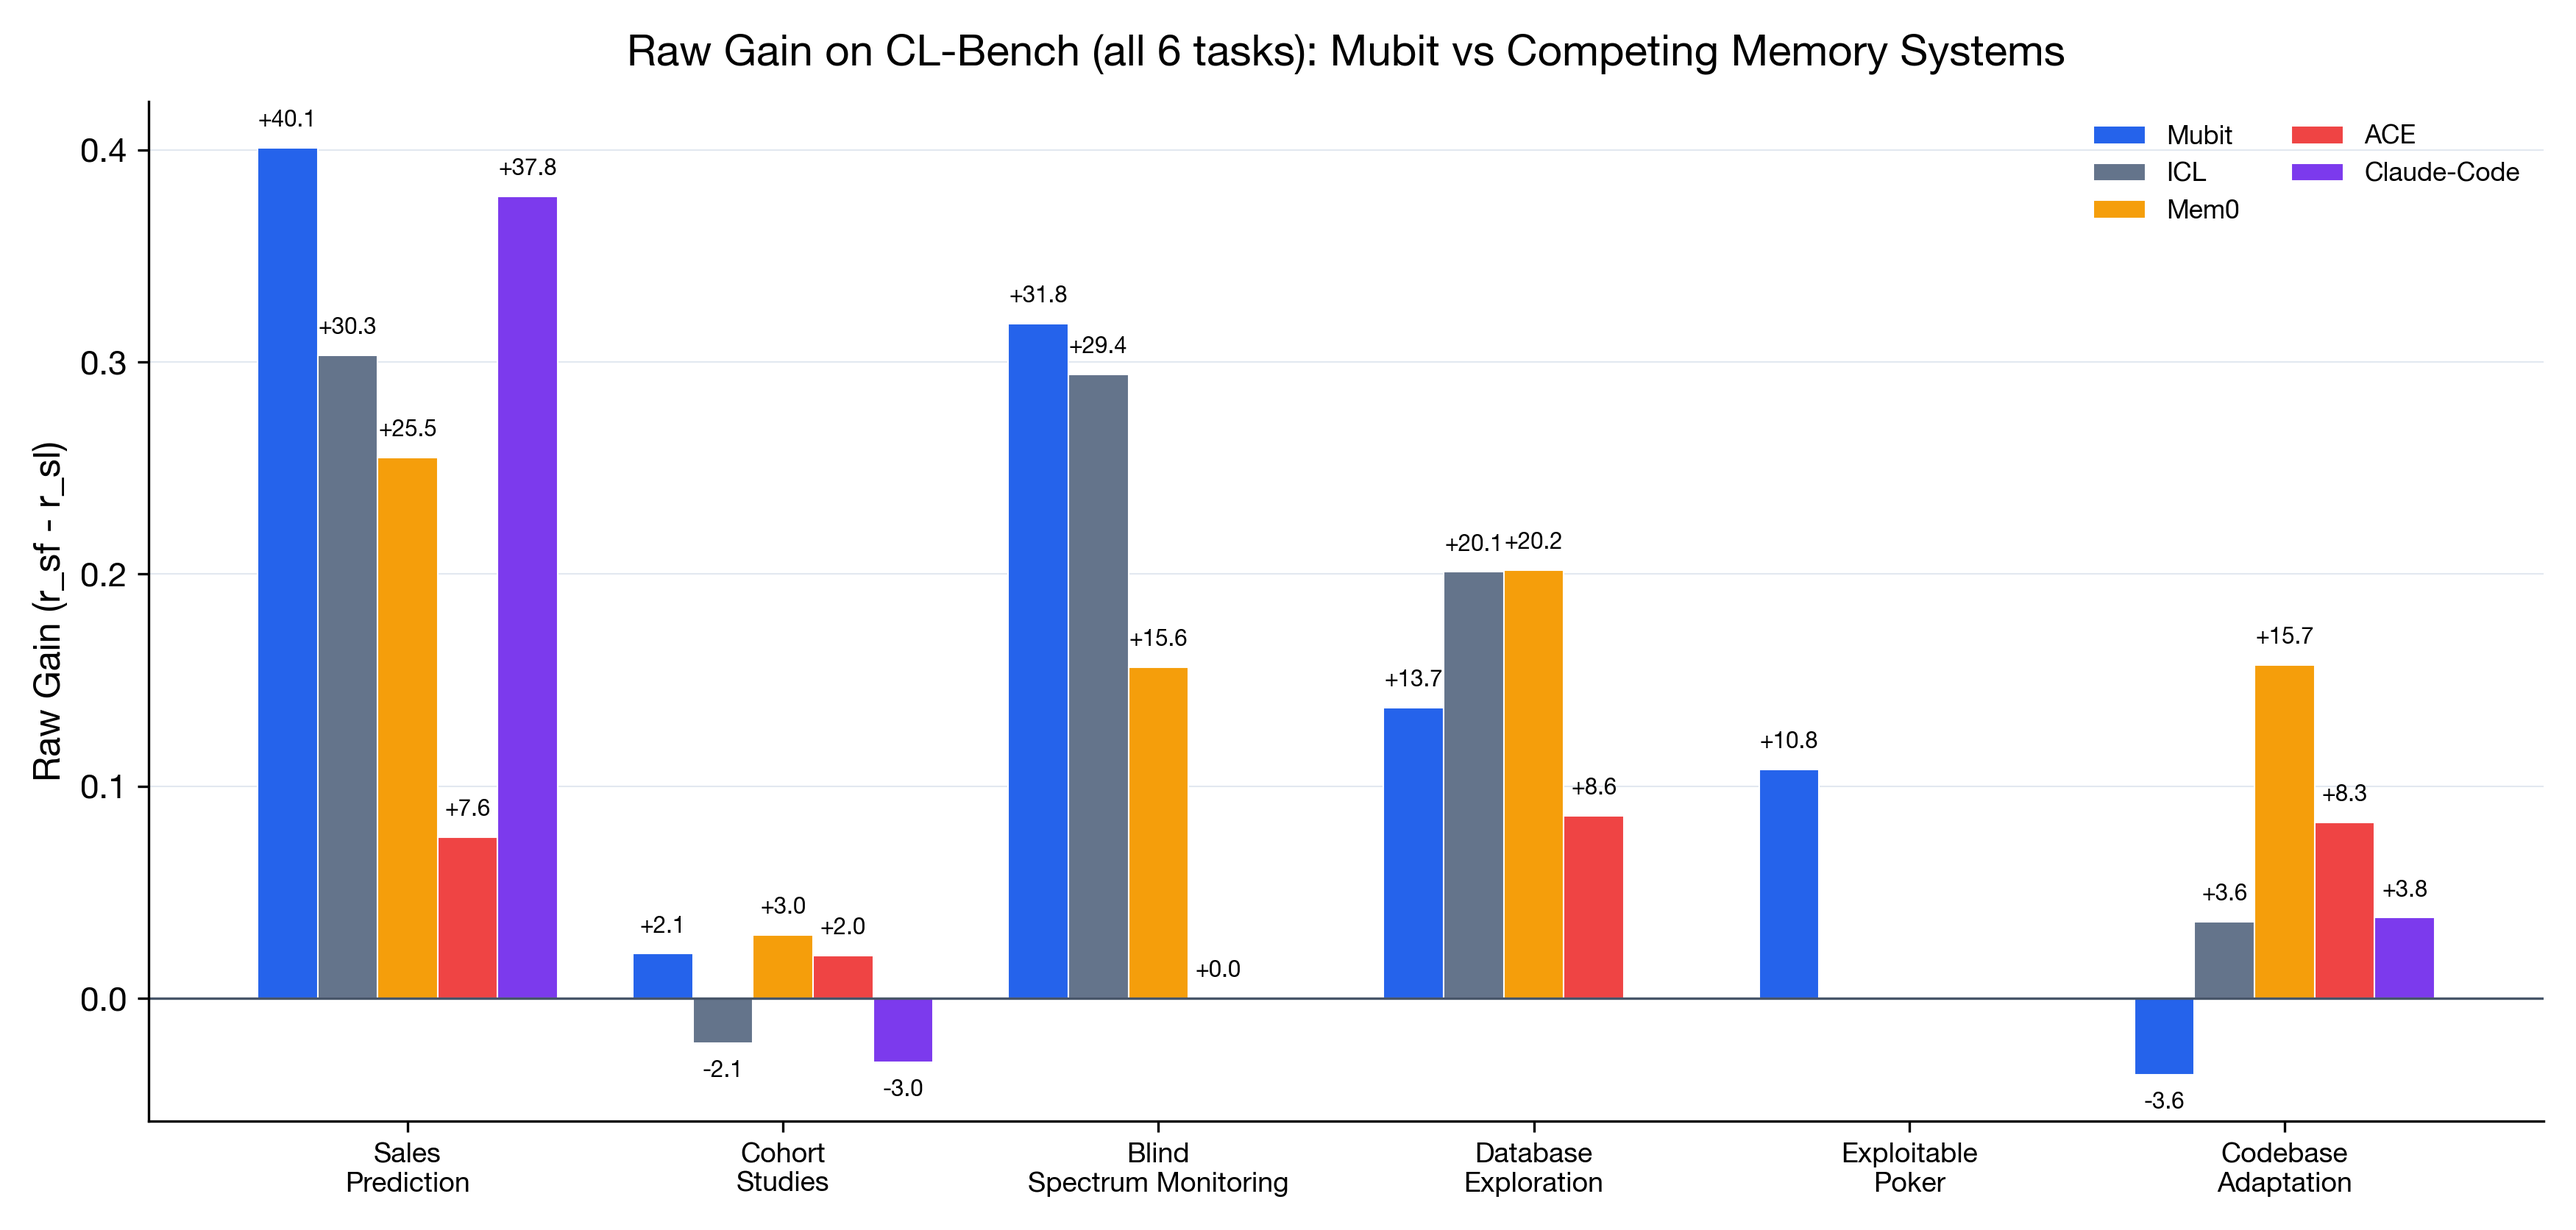
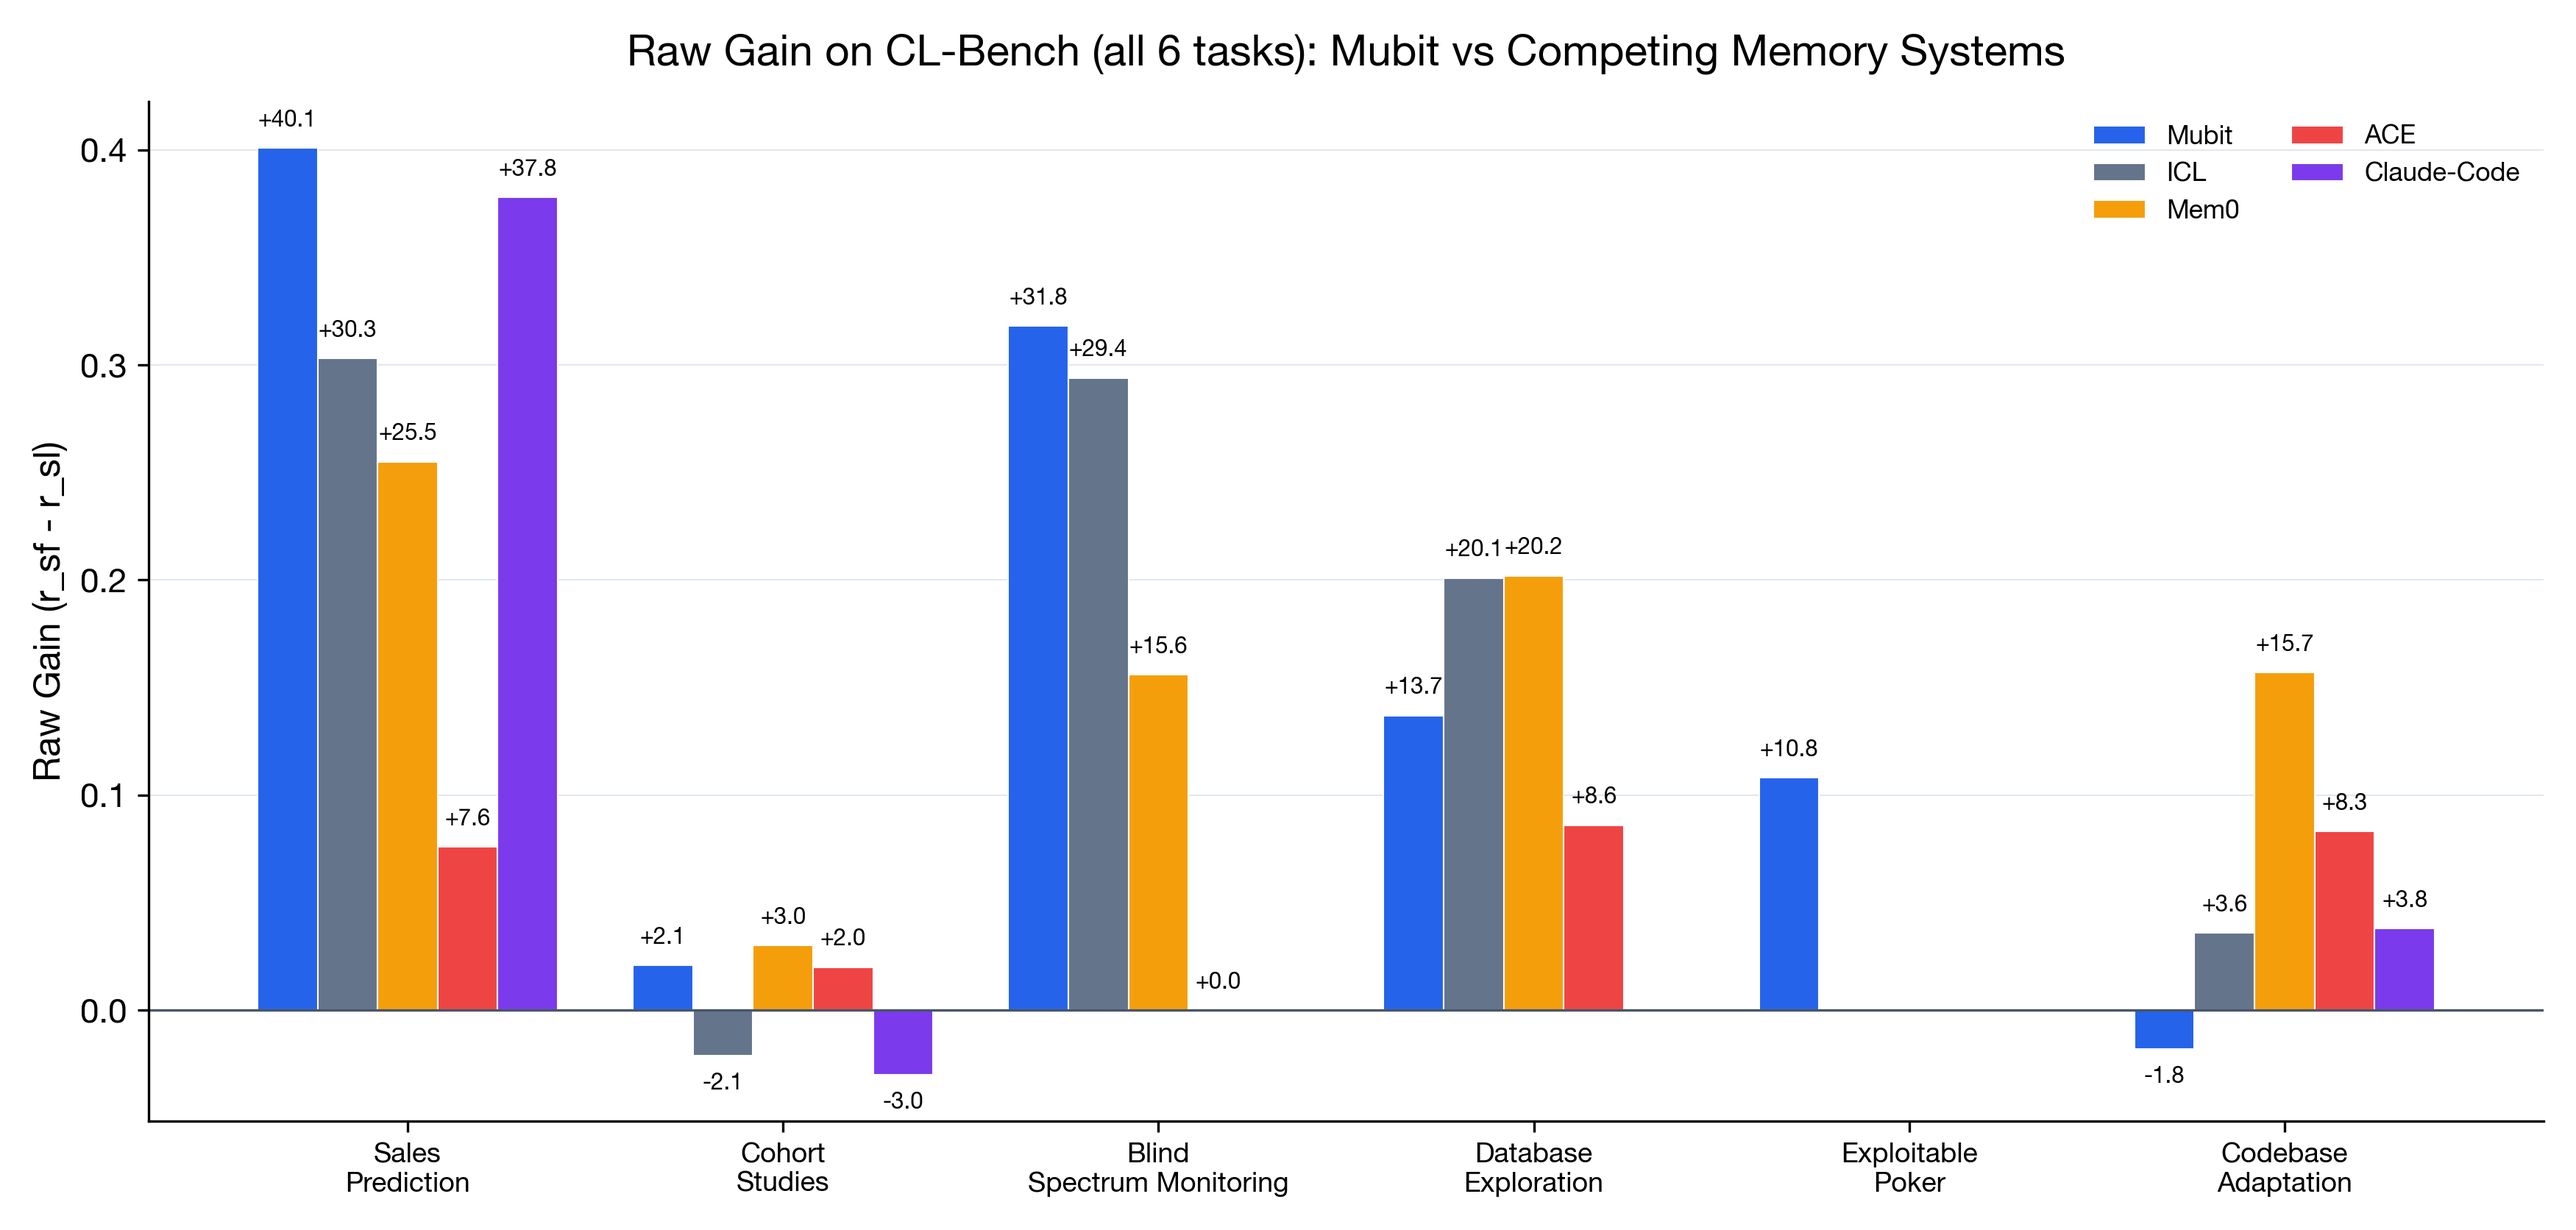
results(codebase): v3.2 verdict −0.018; recovery doubled, regressions persist; v1/v2 correction
- v3.2 (forensic adapter): hard-issue recovery +2.73 vs +1.34, net −0.018
- Documented correction: v1/v2 ran the generic distiller (continuation-prompt
  detection bug found via smoke-trace forensics)
- Position: neutral-within-noise, consistent with the significance analysis

diff --git a/README.md b/README.md
@@ -19,7 +19,7 @@ The CL-Bench paper's headline finding: **dedicated memory systems (Mem0, ACE, IC
 | **Blind Spectrum Monitoring** | 71% best-run IoU; 31.8% g_b (structured registry) | ICL 29.4% g_b | **Leads** |
 | **Database Exploration** | +32% drift adaptation post-migration | Mem0 *negative* on drift | **Only system that adapts** |
 | **Exploitable Poker** | +10.8% (session-stateful + opponent observations) | (paper values unverifiable — see FINDINGS §7.3) | Positive |
-| **Codebase Adaptation** | −0.036 (gpt-5, two distiller configs) | mem0 +0.157 (n.s. at 2σ, run σ 0.129) | Neutral — like most of the field |
+| **Codebase Adaptation** | −0.018 (gpt-5, v3.2 forensic adapter) | mem0 +0.157 (n.s. at 2σ, run σ 0.129) | Neutral — like most of the field |
 
 **The pattern: Mubit wins exactly where continual learning has real signal to accumulate** (forecast transfer, spectrum registry, schema-drift survival, opponent modeling) **and is neutral where the entire field — including the paper's best systems — is statistically at zero** (codebase, cohort). Mubit's cohort runs are the first ever to post an absolutely-positive stateful score.
 
@@ -142,16 +142,20 @@ Poker is the hardest task for memory — cards are dealt randomly each hand. Aft
 
 The breakthrough combined two mechanisms: (1) implicit session memory — the model maintains conversation history across hands, calibrating its play over the session (like ICL), and (2) explicit opponent intelligence from Mubit — behavior patterns the model can't see in its own history. 47/120 hands positive, only 18 negative.
 
-### Codebase Adaptation: neutral (−0.036), like most of the field
+### Codebase Adaptation: neutral (−0.018 after three adapter iterations)
 
-Two GPT-5 configurations (generic distiller, then an operational-knowledge distiller extracting test commands and repo layout):
+Three GPT-5 configurations, each diagnosed from per-issue forensics:
 
-| Config | Baseline | Stateful | Gain |
-|---|---|---|---|
-| v1 (generic lessons) | 0.468 | 0.433 | −0.035 |
-| v2 (operational lessons, repo-keyed) | 0.551 | 0.516 | −0.036 |
+| Config | Baseline | Stateful | Gain | Hard-issue recovery |
+|---|---|---|---|---|
+| v1/v2 (both secretly ran the generic distiller — see below) | 0.468 / 0.551 | 0.433 / 0.516 | −0.035 / −0.036 | +1.34 |
+| **v3.2** (full-episode root-cause distiller, per-issue accumulation, per-turn retrieval, repo filter) | 0.454 | 0.436 | **−0.018** | **+2.73** |
 
-v2's runs tell the real story: 3 of 5 beat baseline (best +0.10), but one bad early-lesson cascade (run 1: 0.320) drags the mean. The task's baseline itself moved ±0.08 between identical configs — the noise floor most of the paper's systems sit inside. A gemini-3.7-flash configuration (weakest baseline, most headroom) is in flight.
+**The v1/v2 correction:** smoke-trace forensics revealed both earlier runs distilled from the final turn's 53-char continuation prompt, so the codebase distiller never executed — v1 and v2 were the same system, explaining their identical scores.
+
+**What v3.2 changed:** recovery on hard (zero-baseline) issues *doubled* — tablib-547: 0→0.58, tenacity-603: 0→0.66, tablib-594: 0→0.55 — proving the richer lessons transfer. But regressions on already-solvable issues persisted (tenacity-614: 0.78→0.17), keeping the net near zero.
+
+**Why we report neutral as the honest verdict:** the task's baseline flips whole issues between identical configs (tablib-547: 0.70→0.00; tenacity-603: 0.82→0.00 across our three GPT-5 baselines) — a noise floor larger than most claimed gains. In the paper's own artifacts only ACE (+0.083) clears 2σ; mem0's +0.157 does not.
 
 ---
 
